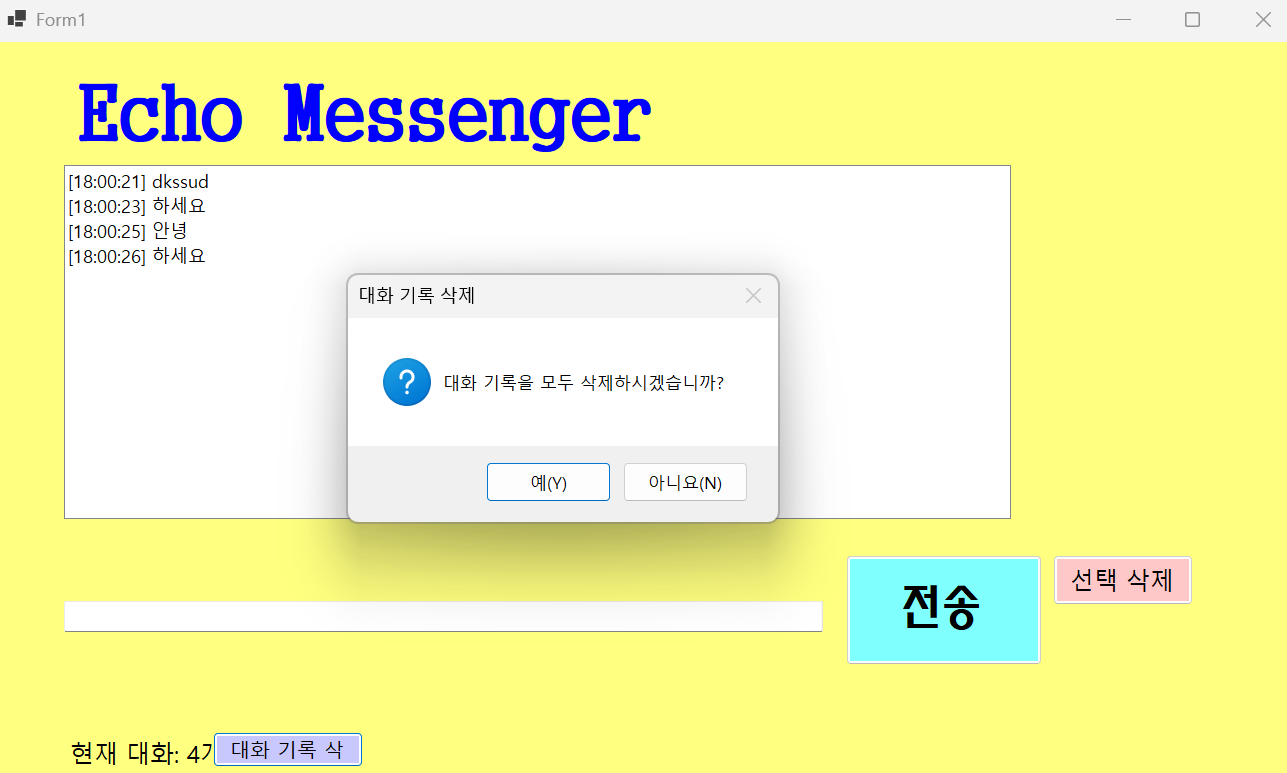
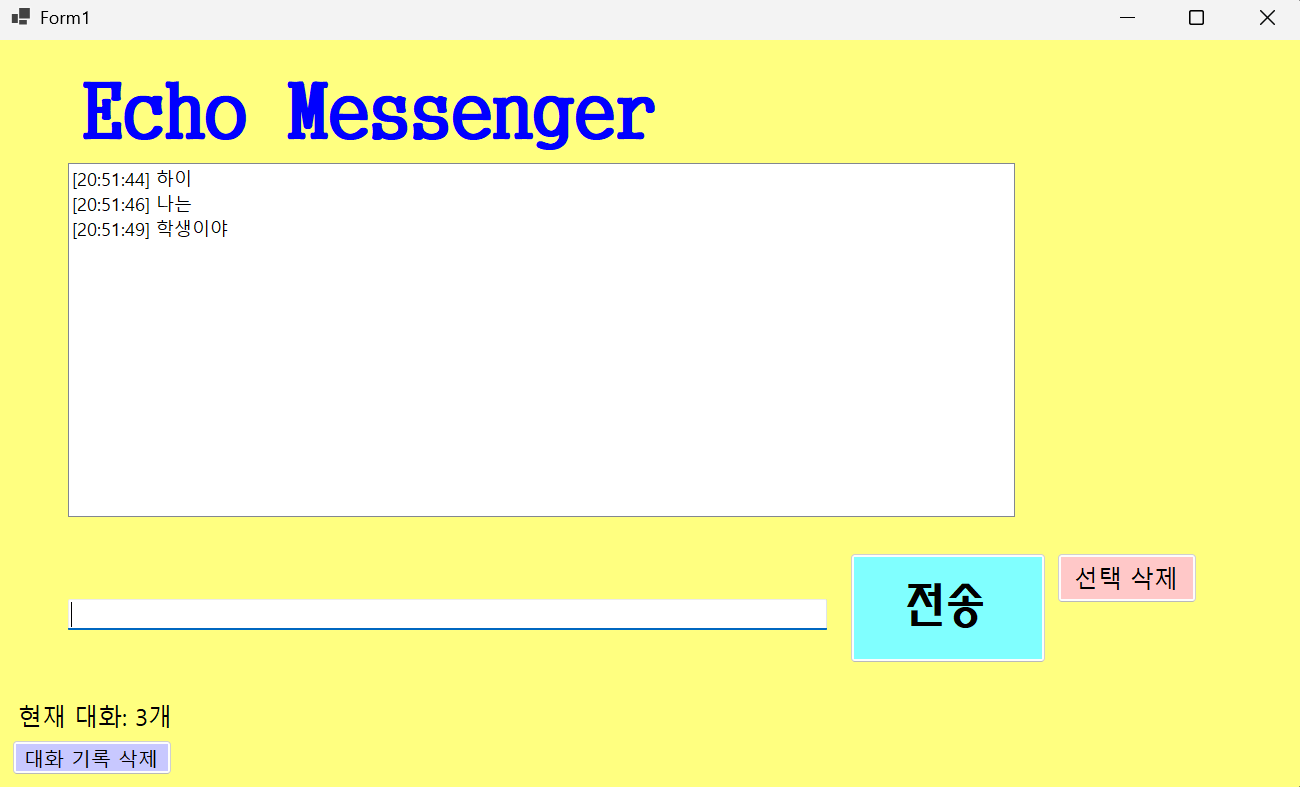
리드미 수

diff --git a/Form1.cs b/Form1.cs
@@ -1,3 +1,4 @@
+using EchoMessenger;
 using System;
 using System.Windows.Forms;
 using static System.Windows.Forms.VisualStyles.VisualStyleElement;
@@ -10,9 +11,33 @@ namespace EchoMessenger
         {
             InitializeComponent();
 
+            // UI 배치 조정 (겹침 및 글자 잘림 해결)
+            AdjustBottomControlsLayout();
+
             // 초기 메시지 개수 표시 및 입력 포커스
             UpdateMessageCount();
             txtStr.Focus();
+        }
+
+        /// <summary>
+        /// 하단 라벨과 버튼의 크기 및 위치를 동적으로 조정합니다.
+        /// </summary>
+        private void AdjustBottomControlsLayout()
+        {
+            // 1. 글자가 절대 안 잘리도록 너비(Width)를 160으로 크게 늘립니다.
+            btnClearAll.AutoSize = false;
+            btnClearAll.Size = new System.Drawing.Size(160, 35); // 가로 160, 세로 35
+
+            // 2. 버튼의 위치를 왼쪽 아래 구석으로 배치
+            int margin = 15;
+            int buttonX = margin;
+            int buttonY = this.ClientSize.Height - btnClearAll.Height - margin;
+            btnClearAll.Location = new System.Drawing.Point(buttonX, buttonY);
+
+            // 3. '현재 대화' 라벨이 버튼 위로 올라가게 배치 (여유 공간 8px)
+            int labelX = margin;
+            int labelY = btnClearAll.Location.Y - lblCount.Height - 8;
+            lblCount.Location = new System.Drawing.Point(labelX, labelY);
         }
 
         private void textBox1_TextChanged(object sender, EventArgs e)
@@ -114,5 +139,11 @@ namespace EchoMessenger
                 UpdateMessageCount();
             }
         }
+
+        private void Form1_Load(object sender, EventArgs e)
+        {
+
+        }
     }
 }
+

diff --git a/Form1.Designer.cs b/Form1.Designer.cs
@@ -51,17 +51,16 @@
             // txtStr
             // 
             txtStr.Location = new Point(71, 559);
+            txtStr.MaxLength = 50;
             txtStr.Name = "txtStr";
             txtStr.Size = new Size(759, 31);
             txtStr.TabIndex = 1;
-            txtStr.MaxLength = 50; // 글자 수 제한
             txtStr.TextChanged += textBox1_TextChanged;
             txtStr.KeyDown += txtStr_KeyDown;
             // 
             // lstMsg
             // 
             lstMsg.FormattingEnabled = true;
-            lstMsg.ItemHeight = 25;
             lstMsg.Location = new Point(71, 123);
             lstMsg.Name = "lstMsg";
             lstMsg.Size = new Size(947, 354);
@@ -113,7 +112,7 @@
             lblCount.ForeColor = Color.Black;
             lblCount.Location = new Point(71, 695);
             lblCount.Name = "lblCount";
-            lblCount.Size = new Size(136, 28);
+            lblCount.Size = new Size(168, 32);
             lblCount.TabIndex = 4;
             lblCount.Text = "현재 대화: 0개";
             // 
@@ -133,6 +132,7 @@
             ForeColor = Color.RoyalBlue;
             Name = "Form1";
             Text = "Form1";
+            Load += Form1_Load;
             ResumeLayout(false);
             PerformLayout();
         }

diff --git a/README.md b/README.md
@@ -10,7 +10,16 @@
 - 사용한 기술과 구현한 기능:
 	- Visual Studio를 이용하여 UI 디자인
 	- string 클래스를 이용한 사용자 입력 데이터 처리
+	- 텍스트 추가 직후 텍스트박스의 내용 삭제
+	- 전송 후 커서 자동 배치
+	- Enter 키를 눌러 메시지 전송 가능
+	- 내용 없는 메세지 전송 방지
+	- 리스트에 쌓인 총 메시지 개수 업데이트
+	- 메시지의 앞뒤 불필요한 공백 제거
 	- DateTime 클래스를 이용한 현재시간 정보 구하기
+	- 특정 메세지 제거를 위한 '삭제'버튼 구현
+	- 모든 내용을 삭제하는 '대화 기록 삭제' 버튼 구현
+	- 입력창에 글자 수를 50자로 제한하고, 초과시 사용자에게 전송을 차단
 
 ## 실행 화면 (과제1)
 - 과제1 코드의 실행 스크린샷
@@ -18,17 +27,19 @@
 ![과제1 실행화면](img/172821.png)
 
 - 과제 내용
-- UI 구성
-	- Label(표시), TextBox(입력), Button(전송), ListBox(대화창)를 적절히 배치합니다.
-- 전송 기능
-	- 전송 버튼 클릭 시 TextBox의 텍스트를 ListBox의 항목(Items)으로 추가합니다.
-- 입력창 정리
-	- 추가 직후 TextBox의 내용을 비워(Clear) 다음 입력을 준비합니다.
+	- UI 구성
+	- 전송 기능
+	- 입력창 정리
 
 - 구현 내용과 기능 설명
 	- 입력창에 메시지 입력하고 전송 버튼을 누르면 메시지가 리스트 박스에 표시된다.
 	- 전송 버튼 클릭 시 메시지가 리스트 박스에 한 줄씩 계속 추가된다.
 	- 추가 직후 텍스트박스의 내용이 지워져서 다음 메시지를 입력할 수 있다.
+
+- 사용한 기술과 구현한 기능:
+   - Label(표시), TextBox(입력), Button(전송), ListBox(대화창)를 적절히 배치
+   - 전송 버튼 클릭 시 TextBox의 텍스트를 ListBox의 항목으로 추가
+   - 추가 직후 TextBox의 내용을 비워 다음 입력을 준비
 
 ## 실행 화면 (과제2)
 - 과제2 코드의 실행 스크린샷
@@ -36,7 +47,7 @@
 ![과제2 실행화면](img/스크린샷2.png)
 
 - 과제 내용
-	- .입력창의 기존 메시지 지우기
+	- 입력창의 기존 메시지 지우기
 	- 입력창에 입력 포커스 갖다 놓기
 	- 엔터키로 전송하기
 	- 엔터 방어
@@ -46,6 +57,11 @@
 	- 전송 후에 마우스로 입력창을 다시 클릭하지 않아도 되도록 커서를 자동으로 입력창에둡니다.
 	- 마우스 클릭 대신 키보드의 Enter 키를 눌러도 메시지가 전송되도록 합니다.
 	- 내용이 없는 빈 문자열이나 공백(Space)만 있을 때는 메시지가 전송되지 않도록 방지합니다.
+
+- 사용한 기술과 구현한 기능:
+   - Trim() 함수를 사용하여 무의미한 공백이나 빈 문자열 전송을 차단
+   - Clear()와 Focus() 메서드를 연계하여 전송 완료 후 즉시 다음 입력을 할 수 있도록 UX를 개선
+   - KeyDown 이벤트를 감지하여 마우스 클릭 없이 Enter 키만으로 메시지를 전송할 수 있게 구현
 
 ## 실행 화면 (과제3)
 - 과제3 코드의 실행 스크린샷
@@ -62,11 +78,19 @@
 	- 현재 리스트에 쌓인 총 메시지 개수를 계산하여 하단 Label에 실시간으로 업데이트합니다.
 	- 사용자가 입력한 메시지의 앞뒤 불필요한 공백을 Trim() 함수로 제거하여 저장합니다.
 
+- 사용한 기술과 구현한 기능:
+	- DateTime.Now 객체와 커스텀 포맷 스트링("HH:mm:ss")을 결합하여 채팅 타임스탬프를 생성
+	- Items.Add()와 Items.Count 속성을 연동하여 메시지 추가와 개수 산정을 실시간으로 동기화
+	- Trim() 메서드를 활용해 의미 없는 선후행 공백을 제거함으로써 데이터의 일관성을 유지
+	- TopIndex 속성 제어를 통해 새 메시지가 추가될 때마다 최하단으로 자동 스크롤되는 채팅 편의 기능을 구현
+   
+
 ## 실행 화면 (과제4)
 - 과제4 코드의 실행 스크린샷
 
 ![과제4 실행화면](img/스크린샷4.png)
 ![과제4 실행화면2](img/스크린샷5.png)
+![과제4 실행화면3](img/스크린샷6.png)
 
 - 과제 내용
 	- 선택 항목 삭제
@@ -74,6 +98,13 @@
 	- 글자 수 제한
 
 - 구현 내용과 기능 설명
-	- ListBox에서 특정 메시지를 마우스로 클릭하고 '삭제' 버튼을 누르면 해당 항목만 목록에서제거합니다. (단, 선택하지 않고 삭제 시 발생하는 에러를 예외 처리해야 함)
+	- ListBox에서 특정 메시지를 마우스로 클릭하고 '삭제' 버튼을 누르면 해당 항목만 목록에서 제거합니다. (단, 선택하지 않고 삭제 시 발생하는 에러를 예외 처리해야 함)
 	- '대화 기록 삭제' 버튼을 클릭하면 리스트의 모든 내용을 한 번에 지웁니다.
 	- 입력창에 글자 수를 50자로 제한하고, 초과시 사용자에게 전송을 차단합니다.
+
+- 사용한 기술과 구현한 기능:
+	- try-catch 블록과 SelectedIndex 유효성 검사를 통해 항목 미선택 상태에서 발생할 수 있는 런타임 오류를 사전에 차단
+	- Items.RemoveAt()과 Items.Clear() 메서드를 활용하여 메모리상의 데이터와 화면상의 리스트뷰를 동기화
+	- MessageBox.Show()의 MessageBoxButtons.YesNo 옵션을 활용하여 전체 삭제 시 사용자의 실수에 의한 데이터 소실을 방지
+	- 문자열의 Length 속성을 활용해 데이터 전송 전 50자 초과 여부를 동적으로 검사하고 시각적 피드백(MessageBoxIcon.Warning)을 제공
+   
